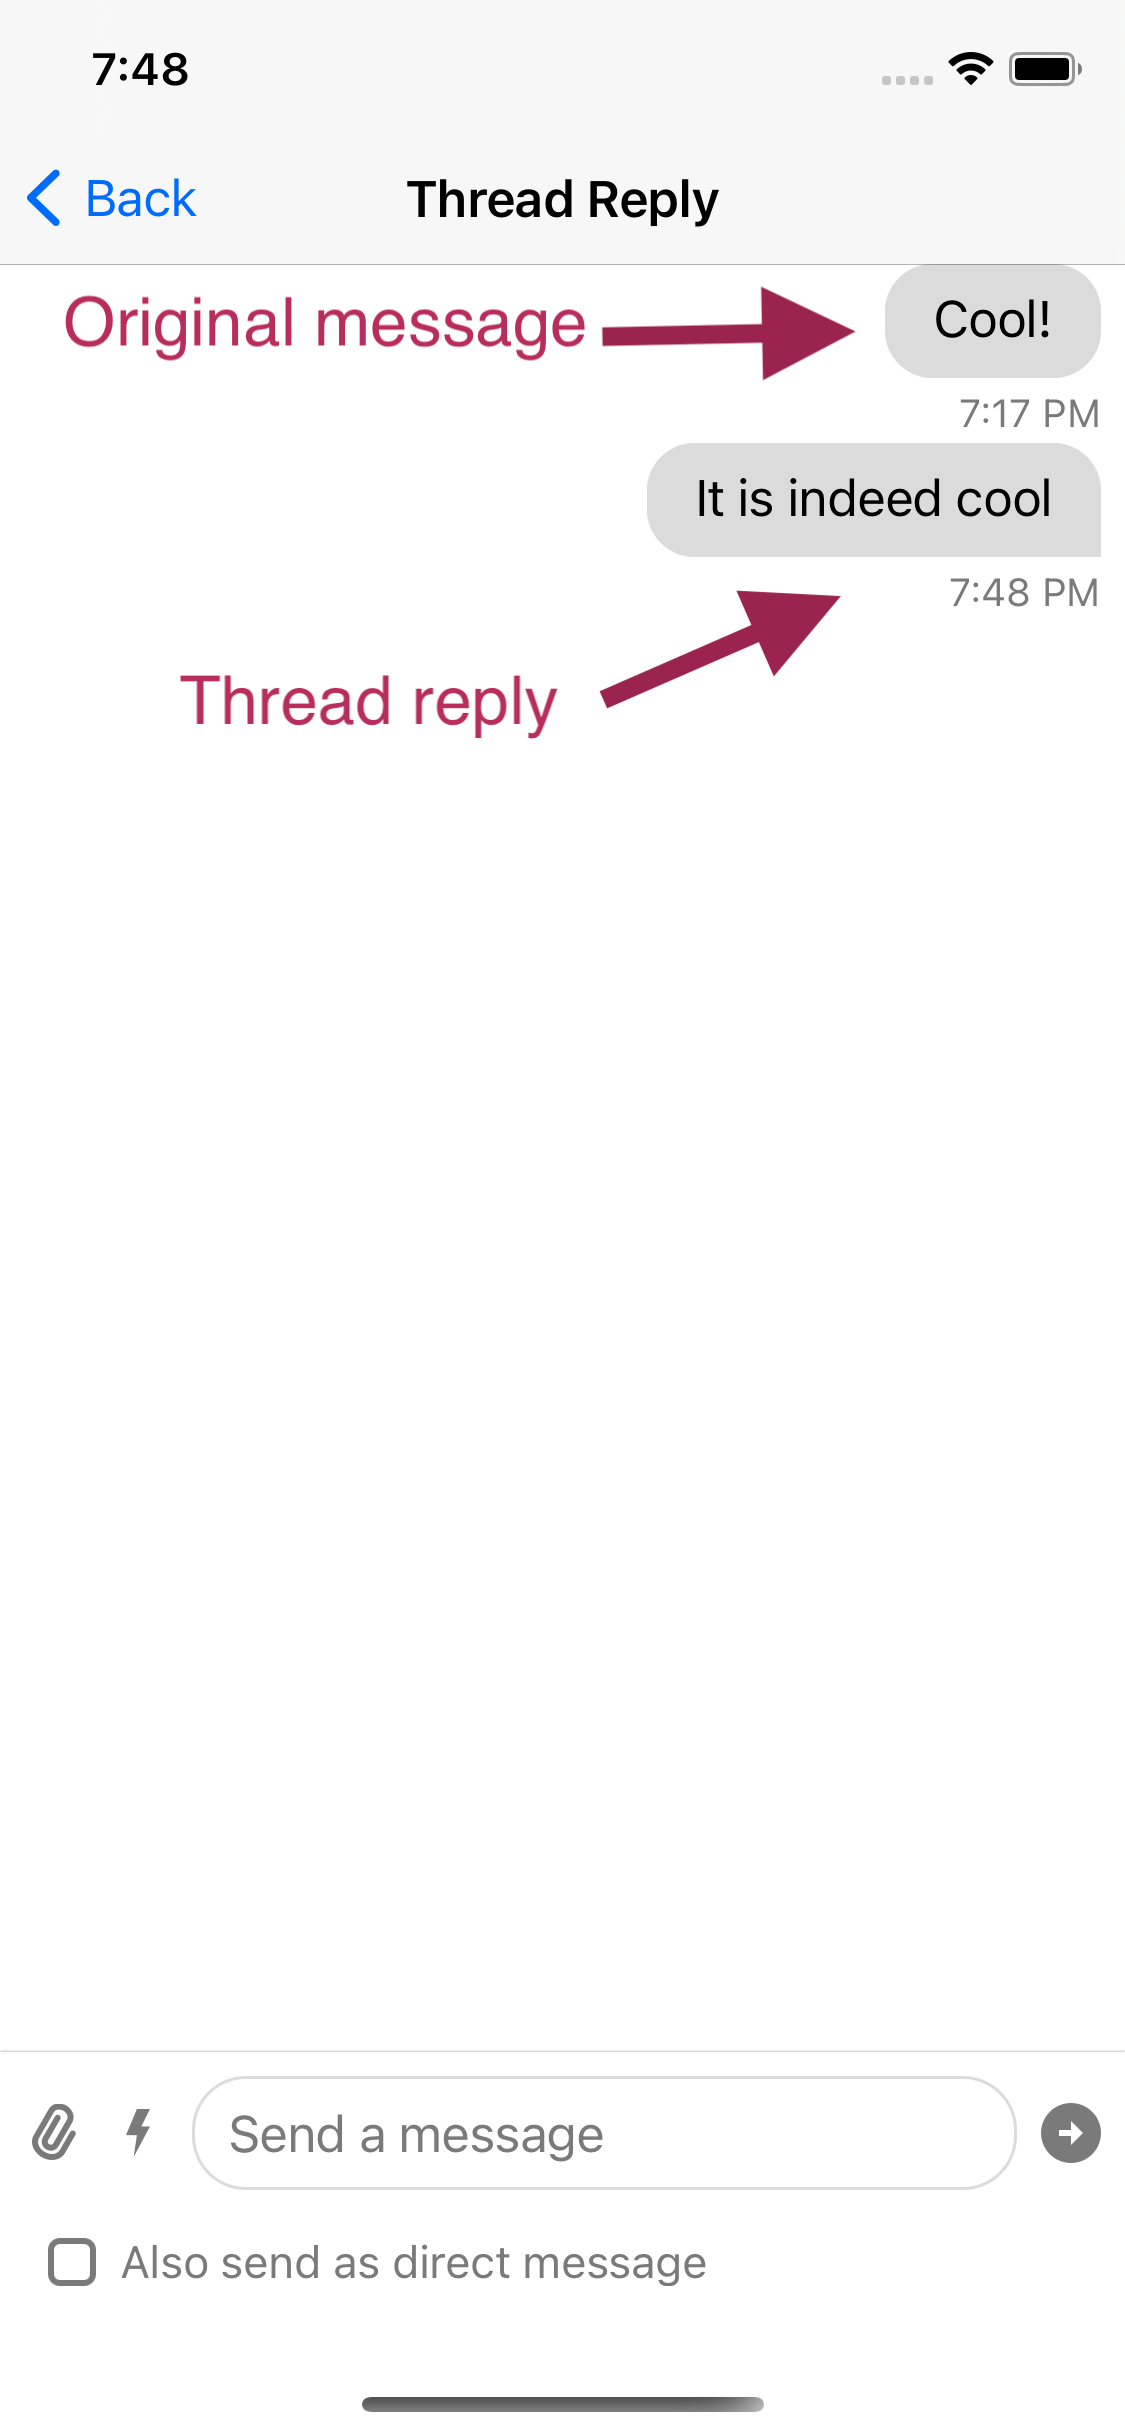
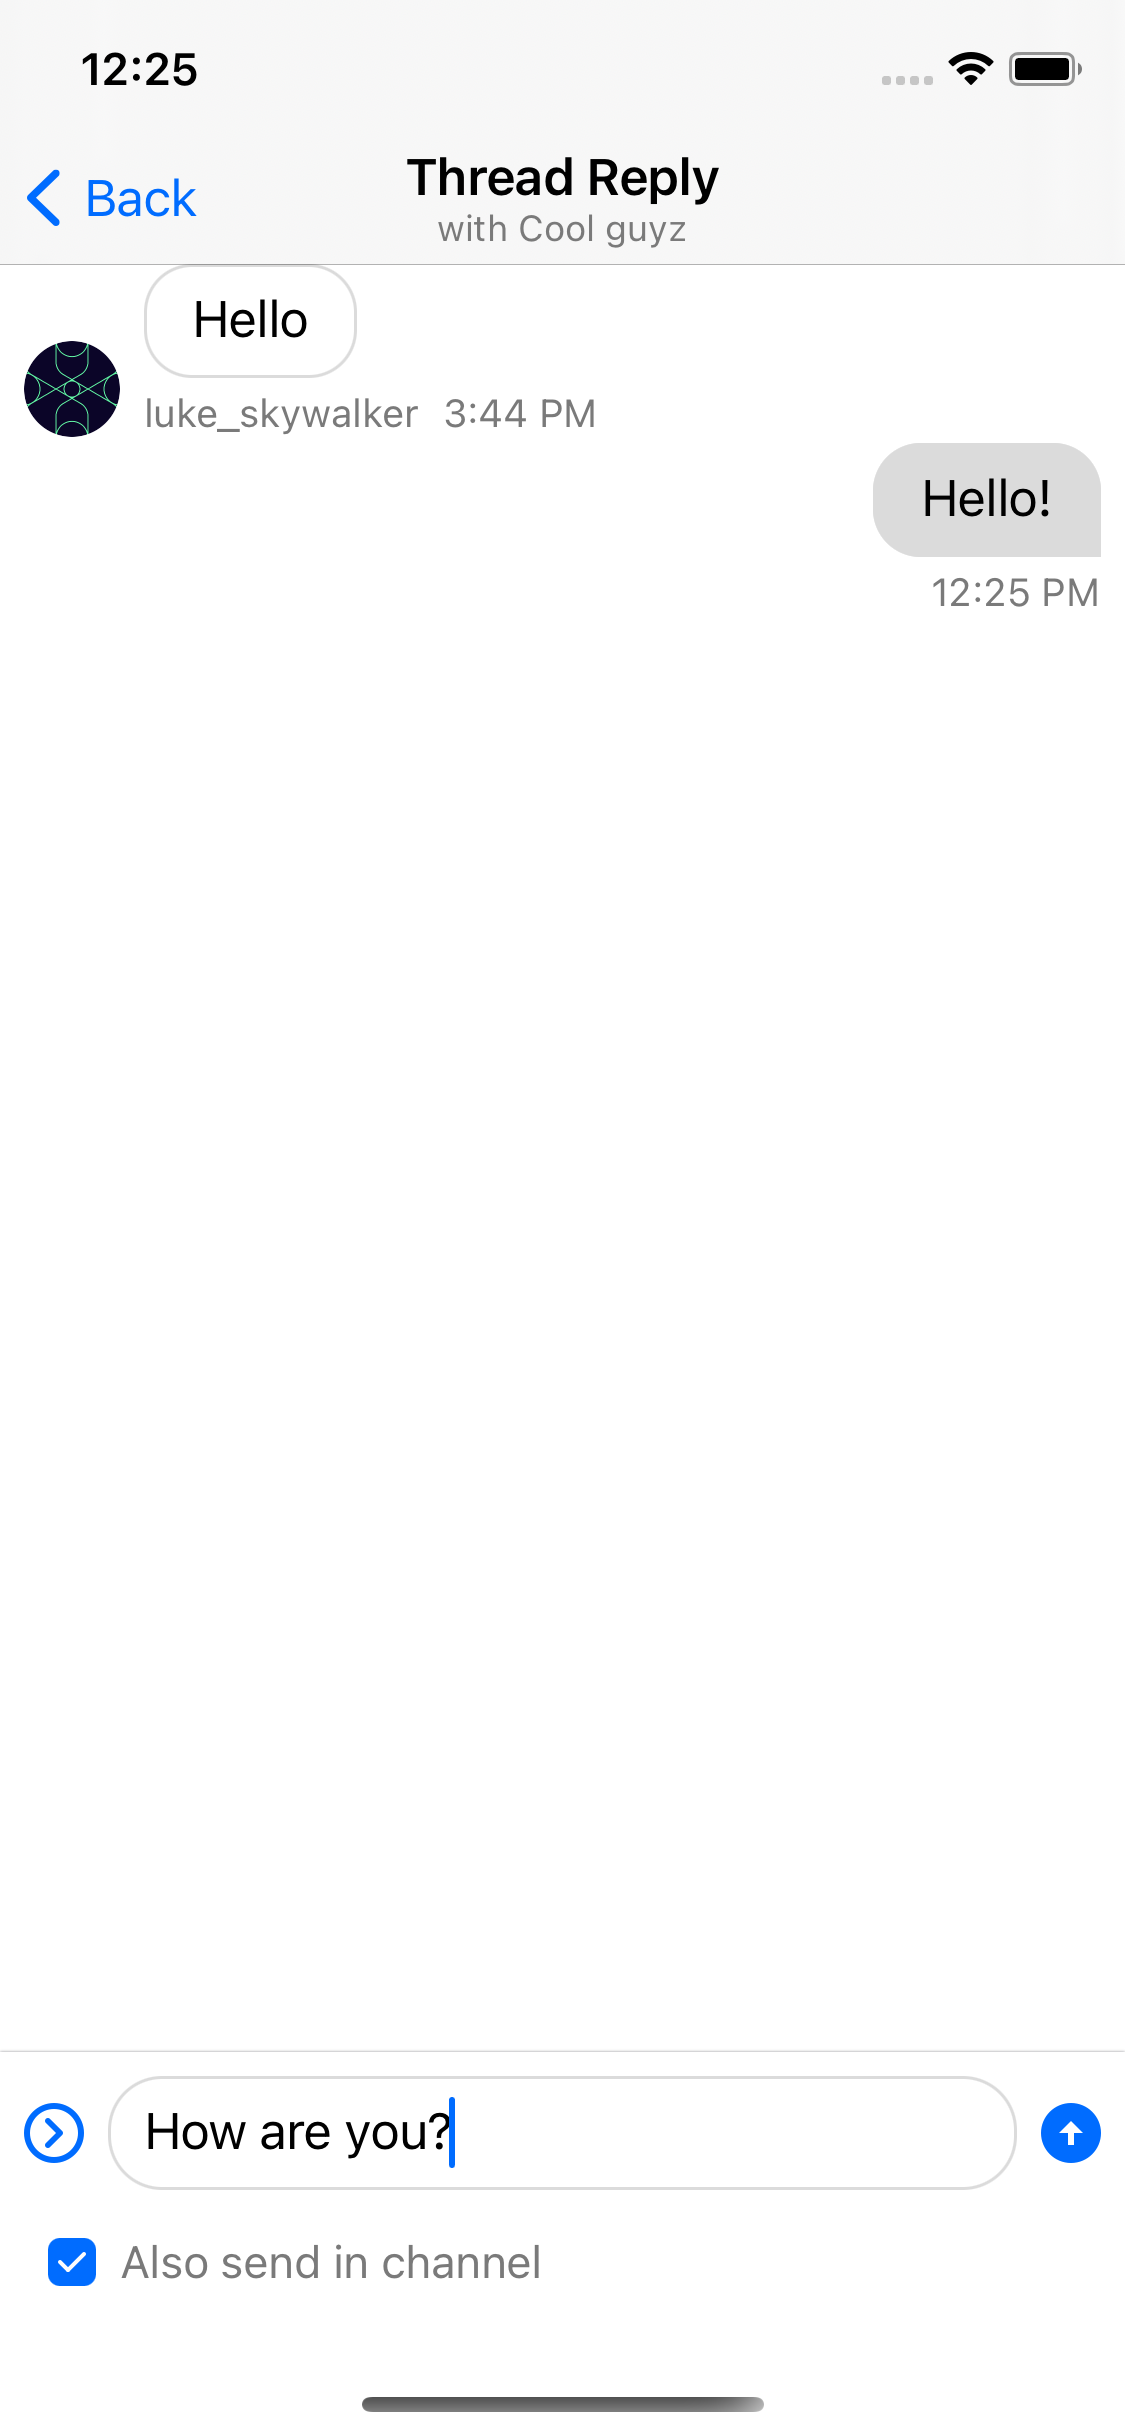
Add screenshots that map some of messages properties on views

diff --git a/stream-chat-swift-docs/docs/guides/working-with-messages.md b/stream-chat-swift-docs/docs/guides/working-with-messages.md
@@ -8,6 +8,10 @@ Depending on combination of its properties messages appear differently, this scr
 
 <img src="../img/messages-showcase.png" width="40%" />
 
+This is how some of `ChatMessage` properties are reflected in views:
+
+<img src="../img/messages-properties.png" width="40%" />
+
 ## Optimistic updates
 
 Optimistic updates model is applied to messages, meaning that when there is a change to local messages state it is propagated to chat components so it is displayed for users right away and then it's synchronized with backend. In case of synchronization failure users may be prompted to retry the failed action.
@@ -280,11 +284,11 @@ There are two ways of replying a message:
   
     Initiating a thread reply takes a user into thread details screen and the resulting message will look like a normal message that is placed inside the thread. It is also possible to duplicate it to the parent channel.
   
-    <img src="../img/thread-details.png" width="20%" />
+    <img src="../img/thread-details.png" width="35%" />
 
     A message with thread replies appears like this:
 
-    <img src="../img/thread-reply.png" width="20%" />
+    <img src="../img/thread-reply.png" width="35%" />
 
 If you use your own implementation for message composer you can create a **thread reply** for a message with `MessageController`:
 
